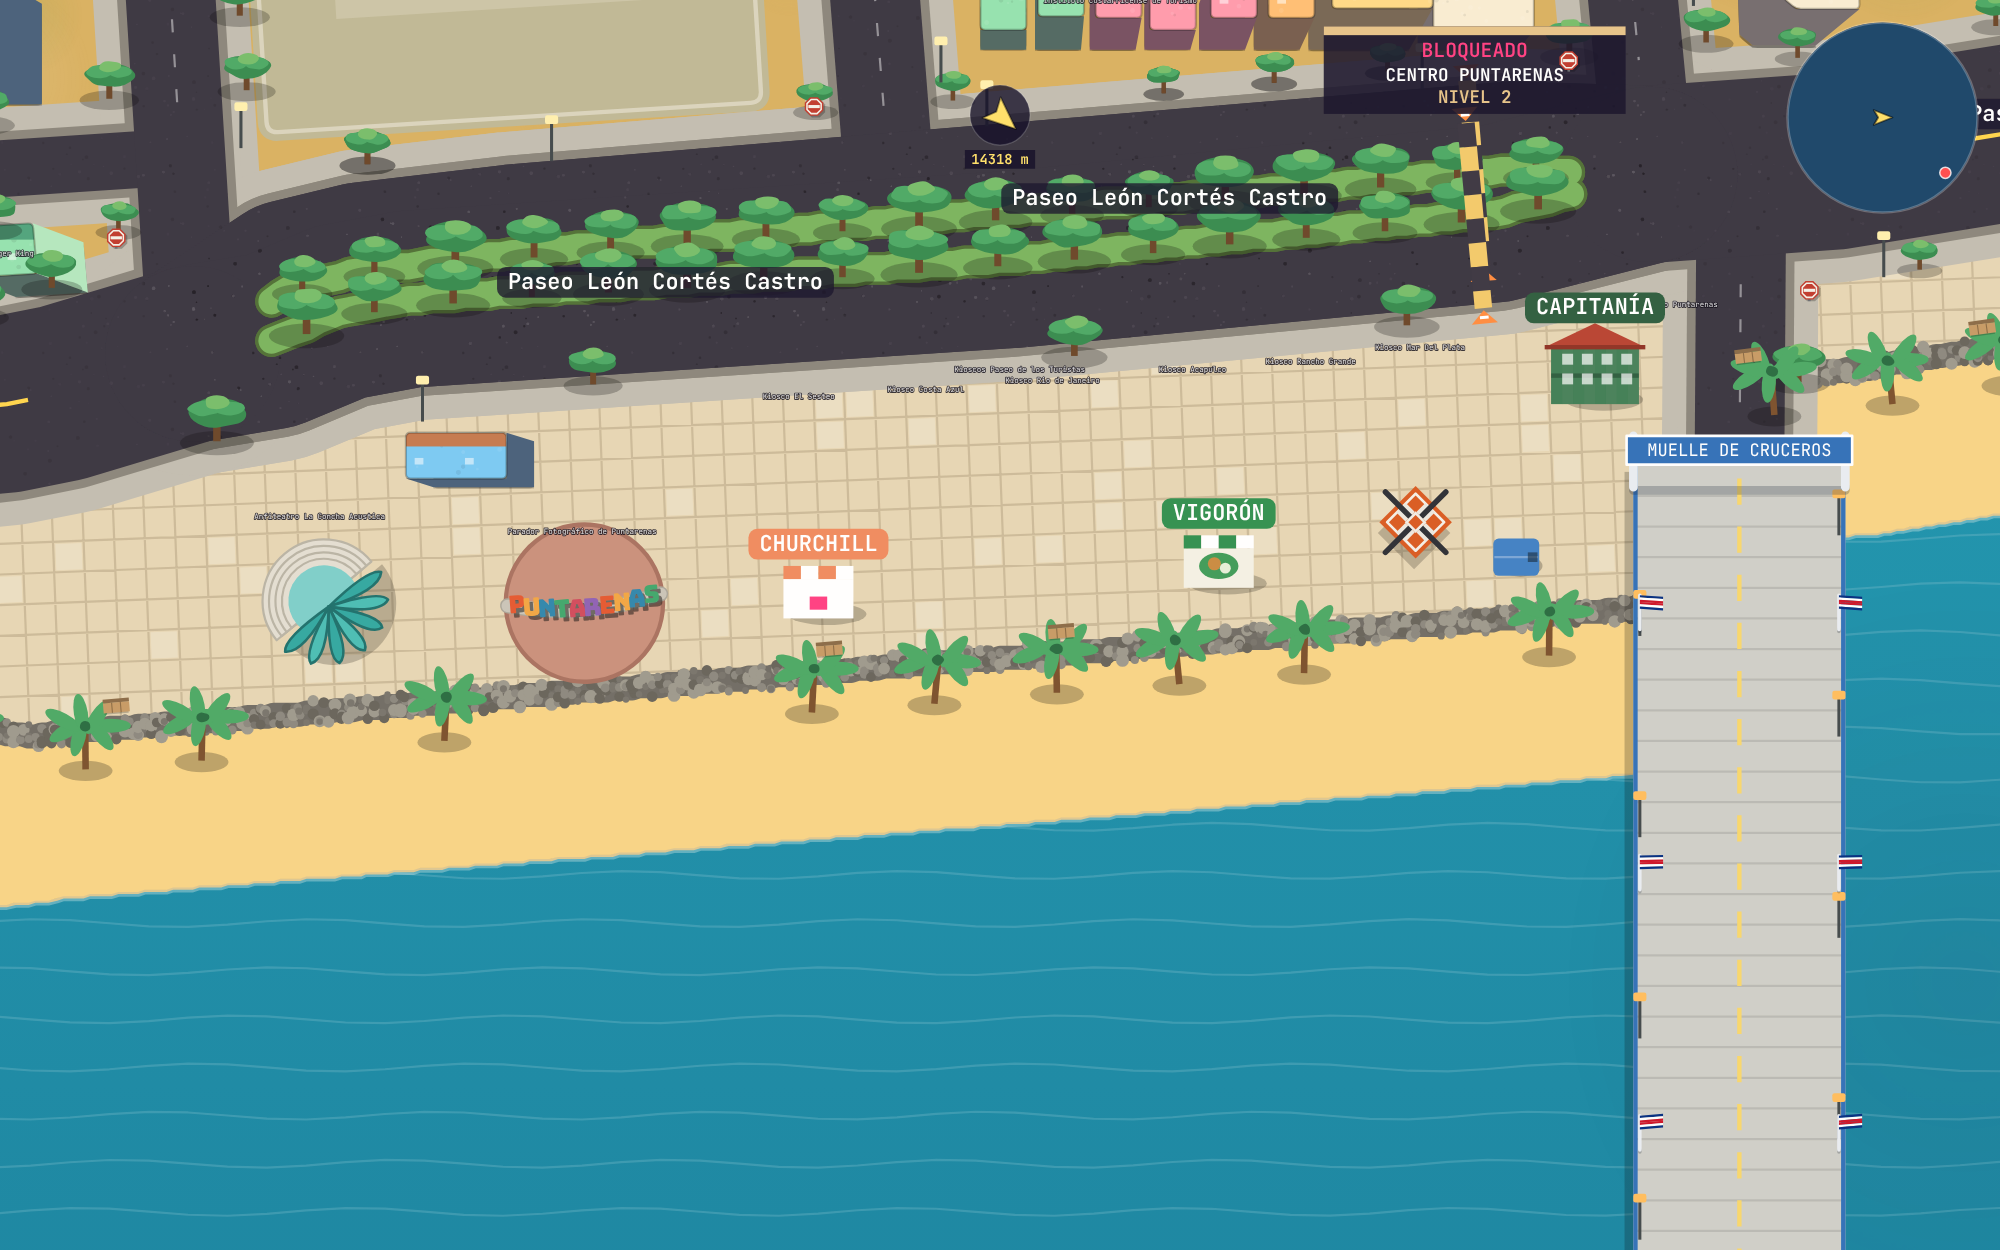
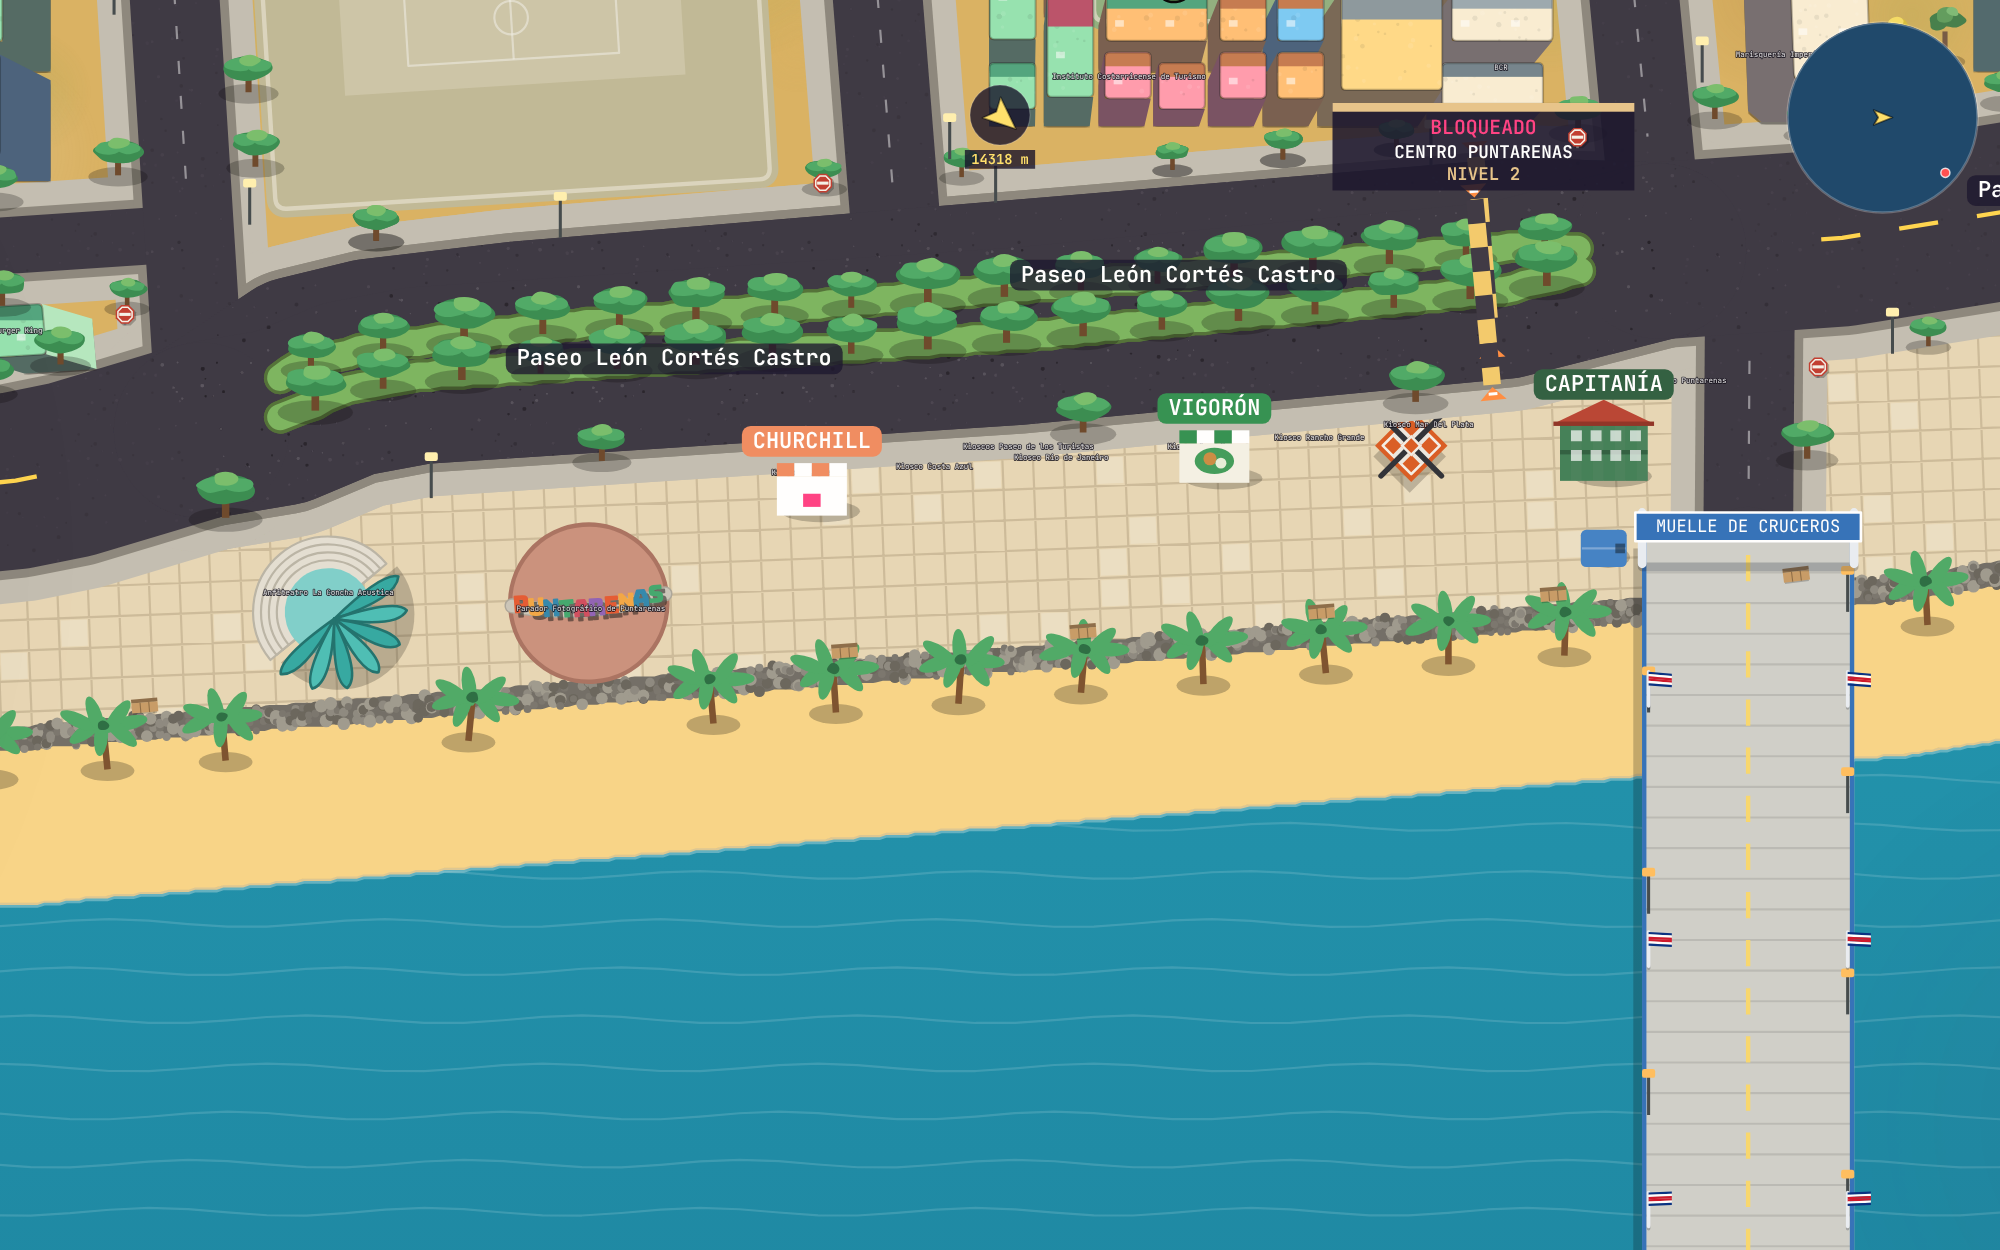
feat(world): Balneario sólo piscina, fila de la Capitanía y el malecón del este al ancho del oeste
El Balneario queda sencillo: césped en toda la cuadra (el contorno de la
ensenada vieja), deck y piscina; salen las huellas de OSM, los edificios
trazados, toldos, piezas y los nombres de negocios que ya no están. En el
tramo de los kioscos el malecón se ensancha sólo 6 m; los dos kioscos y
los Cañones van en fila con la Capitanía, la caseta azul en su columna y
la Concha Acústica llena el malecón dejando un paso del lado de la playa.
Lo que quedaba parado sobre el malecón sale. Al este del muelle el
malecón y la playa siguen las líneas del oeste, del mismo ancho.

Preview sin reconstruir: el ráster no cambia.

Claude-Session: https://claude.ai/code/session_018GSydhWuDAT4g4GG3QKVY6

diff --git a/src/render/c2d/punta.js b/src/render/c2d/punta.js
@@ -192,7 +192,7 @@ function paintMonument(mo, ppm) {
     ctx.fillStyle = C.block; ctx.fillRect(-h * 0.3, -h * 0.3, h * 0.6, h * 0.6);
     ctx.fillStyle = C.base; ctx.fillRect(-h * 0.2, -h * 0.2, h * 0.4, h * 0.4);
   } else if (mo.kind === "shell") {
-    const R = C.rM * ppm, step = R * 0.42 / C.tiers;
+    const R = mo.size || C.rM * ppm, step = R * 0.42 / C.tiers;   // `size`: la Concha que llena su malecón
     // las gradas, del lado de la calle; el escenario y la concha, del lado del mar
     for (let k = C.tiers; k >= 1; k--) {
       ctx.beginPath(); ctx.arc(0, 0, R * 0.58 + step * k, Math.PI, 2 * Math.PI); ctx.lineTo(0, 0); ctx.closePath();
